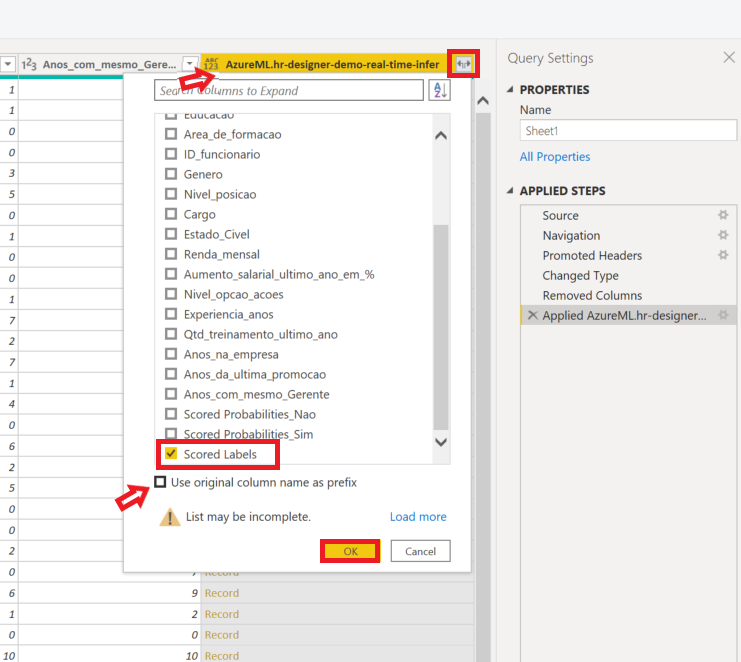
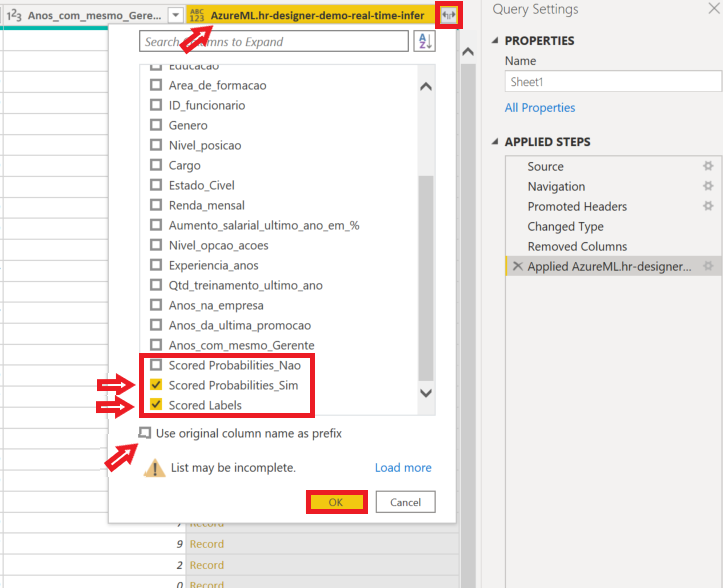
update

diff --git a/README.md b/README.md
@@ -473,7 +473,7 @@ ___
 
 - Após a importação do modelo uma nova coluna surgirá com o nome do seu Endpoint. Click em no ícone no canto direito dessa nova coluna e irá aparecer um pop-up 
 
-    - Desmarque todas as colunas e deixe somente a **'Scored Labels'** marcada
+    - Desmarque todas as colunas e deixe somente a **'Scored Labels'** e **'Scored Probabilities_Sim'** marcada
     - Desmarque a caixa **'Use original column name as prefix'**
     - Click em **'OK'**
 
@@ -487,6 +487,6 @@ ___
 
 - O Azure Machine Learning Designer pode ajudar pessoas com poucos conhecimentos de Machine Learning, mas também pode ajudar Cientista de Dados à ganhar scala e agilidade na criação de seus modelos. 
 
-- E no final podemos ter dados como esse:
+- E no final com pouco trabalho no Power BI podemos ter dados como esses
 
 ![img70](/img/pbi16.png)
